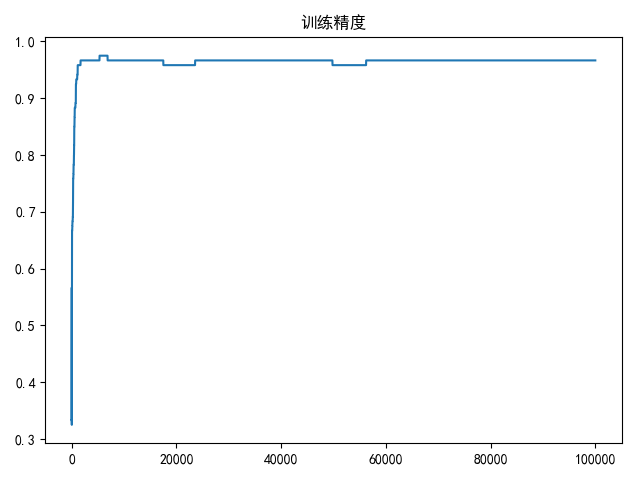
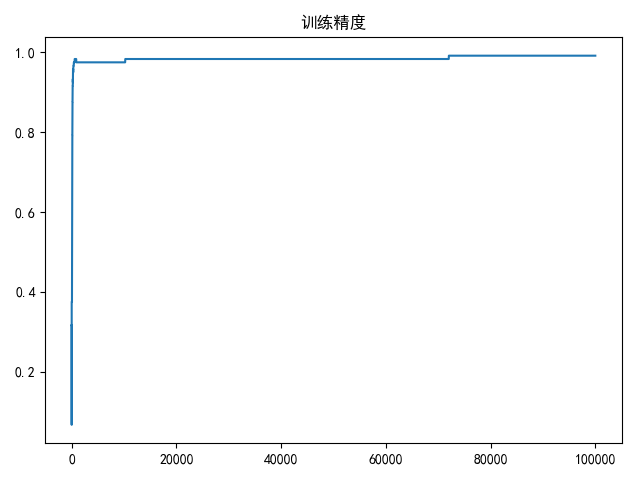
docs(softmax回归): 更新numpy实现代码和梯度矩阵计算公式

diff --git a/blogs/source/_posts/softmax回归.md b/blogs/source/_posts/softmax回归.md
@@ -327,7 +327,7 @@ $$
 
 ## 梯度下降
 
-权重$W$大小为$n\times k$，输入数据集大小为$m\times n$，输出数据集大小为$m\times k$
+权重$W$大小为$(n+1)\times k$，输入数据集大小为$m\times (n+1)$，输出数据集大小为$m\times k$
 
 矩阵求导如下：
 
@@ -340,7 +340,7 @@ $$
 ...\\ 
 (-1)\cdot\left[ 1\left\{y=k \right\} - p\left(y=k | x; \theta\right) \right]\cdot x
 \end{bmatrix}
-=(-1)\cdot \frac{1}{m}\cdot X_{m\times n}^T \cdot (I_{m\times k} - Y_{m\times k})
+=(-1)\cdot \frac{1}{m}\cdot X_{m\times n+1}^T \cdot (I_{m\times k} - Y_{m\times k})
 $$
 
 参考：
@@ -524,14 +524,14 @@ def load_data(shuffle=True, tsize=0.8):
     return x_train, x_test, y_train, y_test, y_train_indicator, y_test_indicator
 
 
-def linear(x, w, b):
+def linear(x, w):
     """
     线性操作
-    :param x: 大小为(m,n)
-    :param w: 大小为(k,n)
+    :param x: 大小为(m,n+1)
+    :param w: 大小为(n+1,k)
     :return: 大小为(m,k)
     """
-    return x.dot(w) + b
+    return x.dot(w)
 
 
 def softmax(x):
@@ -545,27 +545,26 @@ def softmax(x):
     return exps / np.atleast_2d(np.sum(exps, axis=1)).T
 
 
-def compute_scores(W, b, X):
+def compute_scores(X, W):
     """
     计算精度
-    :param X: 大小为(m,n)
-    :param W: 大小为(k,n)
-    :param b: 1
+    :param X: 大小为(m,n+1)
+    :param W: 大小为(n+1,k)
     :return: (m,k)
     """
-    return softmax(linear(X, W, b))
+    return softmax(linear(X, W))
 
 
-def compute_loss(scores, indicator, W, b, la=2e-4):
+def compute_loss(scores, indicator, W, la=2e-4):
     """
     计算损失值
-    :param scores: 大小为(m, n)
-    :param indicator: 大小为(m, n)
-    :param W: (n, k)
-    :return: (m,1)
+    :param scores: 大小为(m, k)
+    :param indicator: 大小为(m, k)
+    :param W: (n+1, k)
+    :return: (1)
     """
     cost = -1 / scores.shape[0] * np.sum(np.log(scores) * indicator)
-    reg = la / 2 * (np.sum(W ** 2) + b ** 2)
+    reg = la / 2 * np.sum(W ** 2)
     return cost + reg
 
 
@@ -574,9 +573,9 @@ def compute_gradient(scores, indicator, x, W, la=2e-4):
     计算梯度
     :param scores: 大小为(m,k)
     :param indicator: 大小为(m,k)
-    :param x: 大小为(m,n)
-    :param W: (n, k)
-    :return: (n,k)
+    :param x: 大小为(m,n+1)
+    :param W: (n+1, k)
+    :return: (n+1,k)
     """
     return -1 / scores.shape[0] * x.T.dot((indicator - scores)) + la * W
 
@@ -604,11 +603,12 @@ def draw(res_list, title=None, xlabel=None):
 def compute_gradient_descent(batch_size=8, epoches=2000, alpha=2e-4):
     x_train, x_test, y_train, y_test, y_train_indicator, y_test_indicator = load_data()
 
-    n = x_train.shape[1]
-    cates = y_train_indicator.shape[1]
-    # 初始化权重和添加偏置值
-    W = 0.01 * np.random.normal(loc=0.0, scale=1.0, size=(n, cates))
-    b = 0.01 * np.random.normal(loc=0.0, scale=1.0, size=1)
+    m, n = x_train.shape[:2]
+    k = y_train_indicator.shape[1]
+    # 初始化权重(n+1,k)
+    W = 0.01 * np.random.normal(loc=0.0, scale=1.0, size=(n + 1, k))
+    x_train = np.insert(x_train, 0, np.ones(m), axis=1)
+    x_test = np.insert(x_test, 0, np.ones(x_test.shape[0]), axis=1)
 
     loss_list = []
     accuracy_list = []
@@ -621,16 +621,16 @@ def compute_gradient_descent(batch_size=8, epoches=2000, alpha=2e-4):
             labels = y_train_indicator[j:j + batch_size]
 
             # 计算分类概率
-            scores = np.atleast_2d(compute_scores(W, b, data))
+            scores = np.atleast_2d(compute_scores(data, W))
             # 更新梯度
             tempW = W - alpha * compute_gradient(scores, labels, data, W)
             W = tempW
 
             if j == range_list[-1]:
-                loss = compute_loss(scores, labels, W, b)
+                loss = compute_loss(scores, labels, W)
                 loss_list.append(loss)
 
-                accuracy = compute_accuracy(compute_scores(W, b, x_train), y_train)
+                accuracy = compute_accuracy(compute_scores(x_train, W), y_train)
                 accuracy_list.append(accuracy)
                 if accuracy >= bestA:
                     bestA = accuracy
@@ -641,20 +641,20 @@ def compute_gradient_descent(batch_size=8, epoches=2000, alpha=2e-4):
     draw(accuracy_list, title='训练精度')
 
     print(bestA)
-    print(compute_accuracy(compute_scores(bestW, b, x_test), y_test))
+    print(compute_accuracy(compute_scores(x_test, bestW), y_test))
 
 
 if __name__ == '__main__':
     compute_gradient_descent(batch_size=8, epoches=100000)
 ```
 
-测试结果：
+训练10万次的最好训练结果以及对应的测试结果：
 
 ```
 # 测试集精度
-0.975
+0.9916666666666667
 # 验证集精度
-1.0
+0.9666666666666667
 ```
 
 ![](/imgs/softmax回归/numpy_softmax_loss.png)
